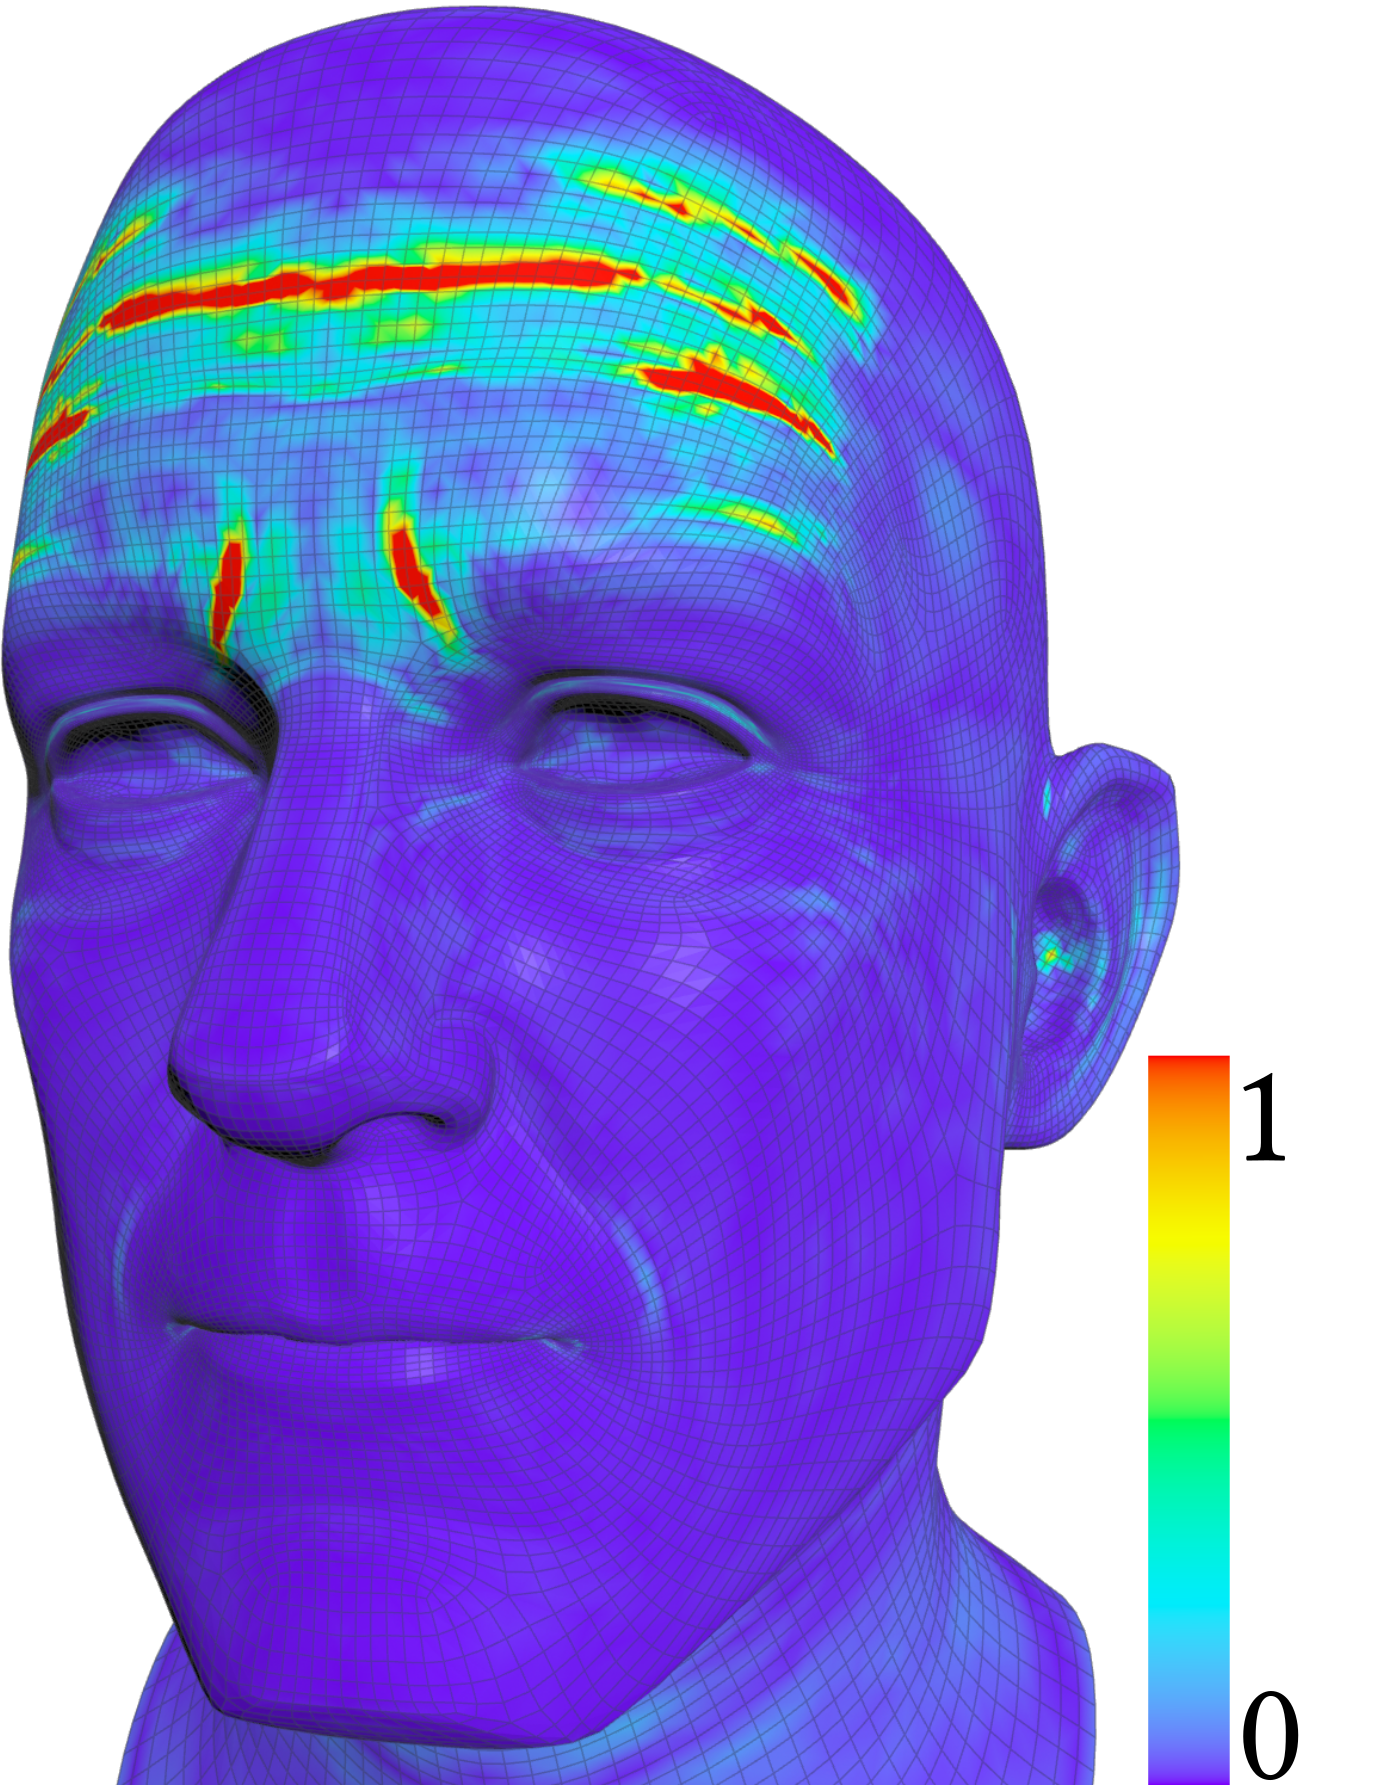
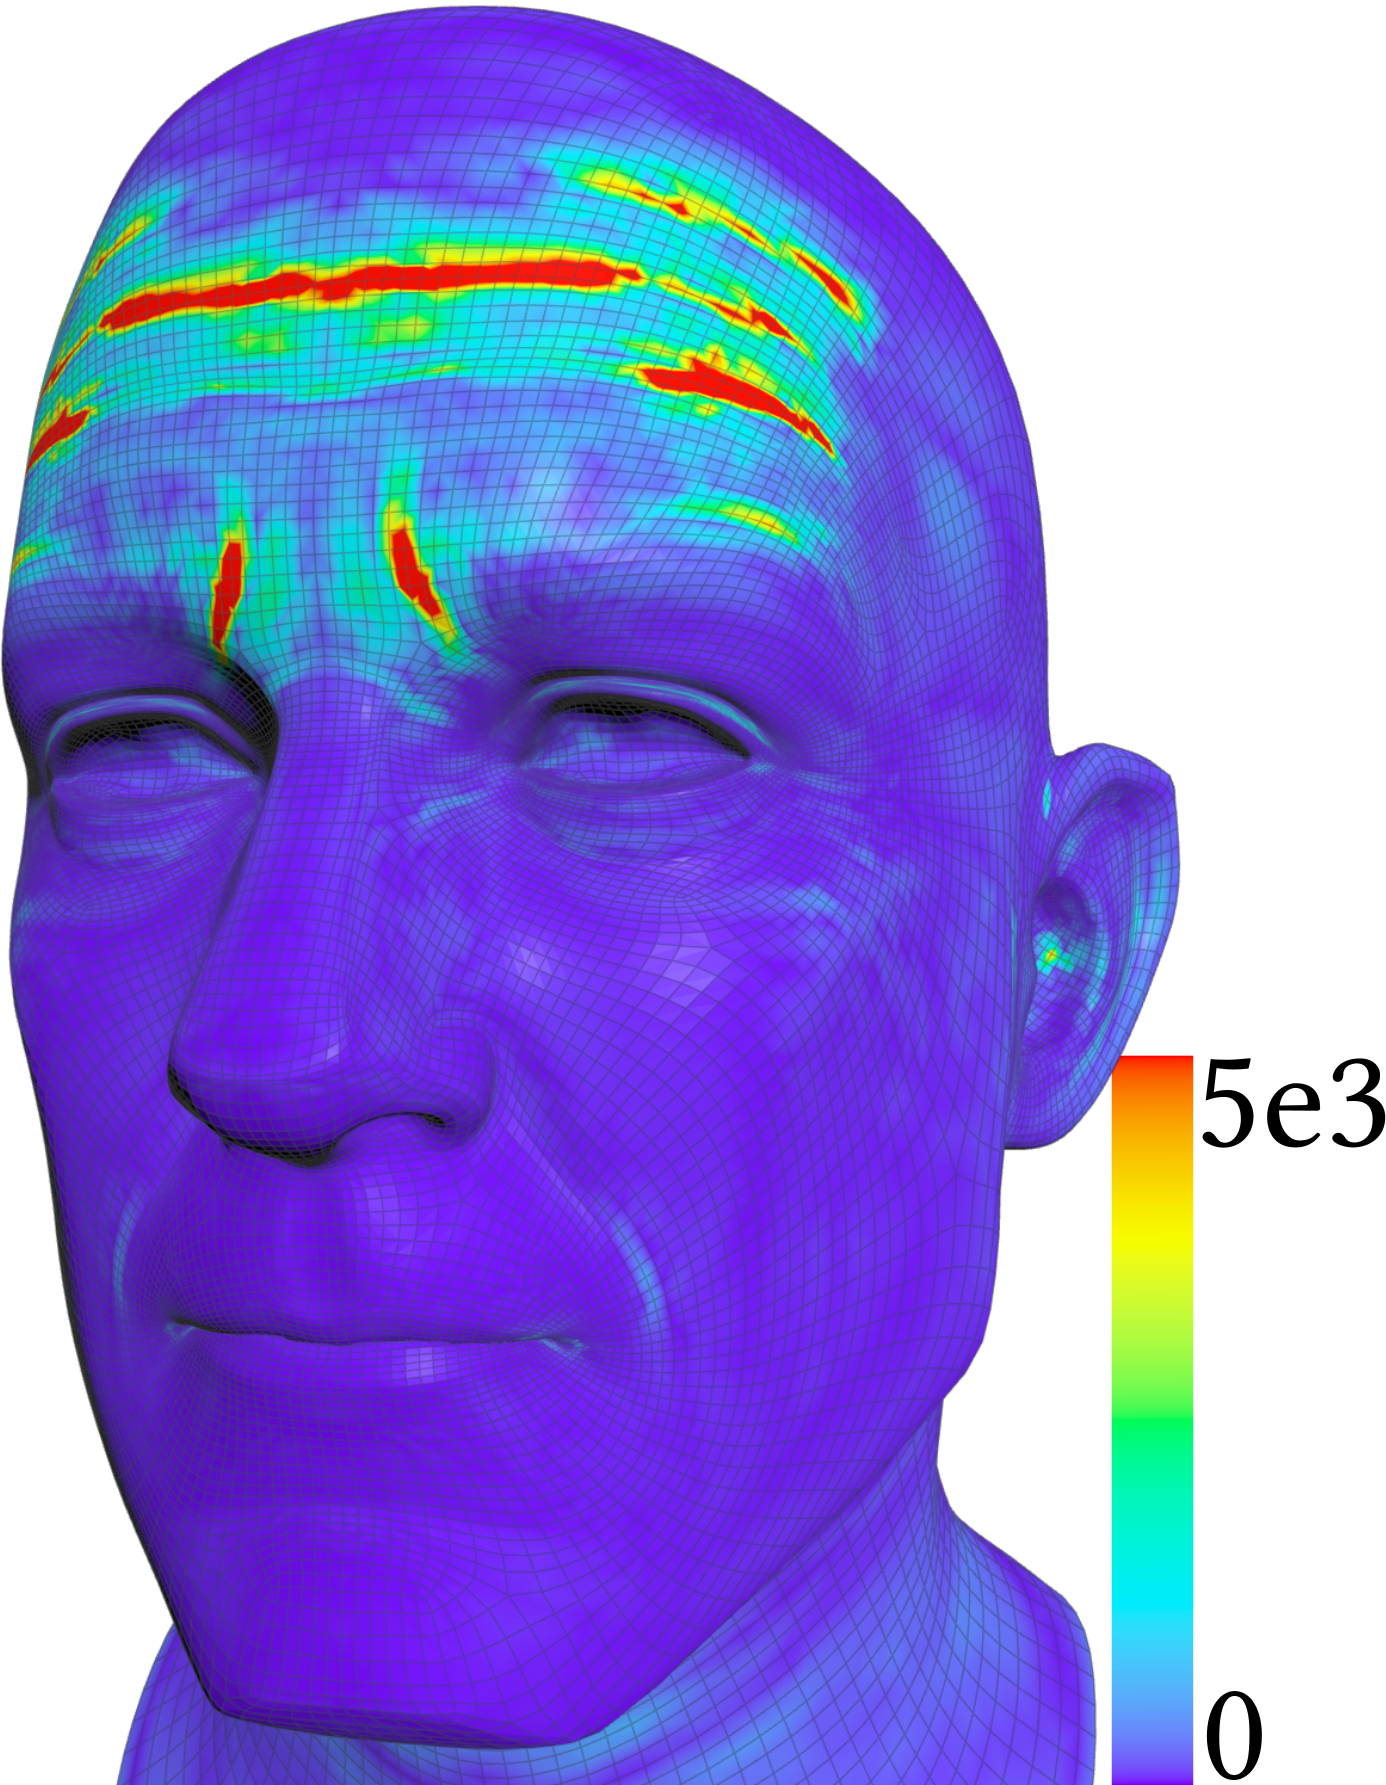
remove alpha from supplemental materials, correct wrinkles figure

Changed region(s): [[0.7756, 0.5854, 1.0, 1.0]]

diff --git a/HPG2025QMFPaper/latex/0_Supplemental.tex b/HPG2025QMFPaper/latex/0_Supplemental.tex
@@ -11,6 +11,7 @@
 \usepackage{xspace}
 \usepackage{multirow}
 \usepackage{siunitx}
+% \usepackage{float}
 
 \graphicspath{ {./images/} {./generated/} }
 
@@ -53,21 +54,22 @@
 
 \maketitle
 % \section{Supplemental Material}
-\vspace{4mm}
+% \vspace{4mm}
 \subsection*{CPU Runtime Code}
 This supplementary material provides the CPU implementation for applying blendshapes at runtime using sparse matrix factorization.
 
 To perform the multiplication efficiently, we iterate over the array~$\bSWeight$. For each non-zero weight, we access the corresponding three rows of the matrix $\matB$. If $\matB$ contains non-zero entries for the given weight, we perform the necessary multiplications and accumulate the results into the intermediate matrix $\matWB$.
 
 In the final stage of the algorithm, we multiply the small dense matrix $\matWB$ with sparse matrix $\matC$. This is done by iterating over the columns of $\matC$. For each non-zero entry, we access the corresponding column in $\matWB$, perform the multiplication, and add the result to the precomputed rest pose value. The final result is then stored. (See \Algorithm{alg:RuntimeCode})
+% \vspace{5cm}
 
-\subsection*{Chose of $\alpha$ value}
-\begin{figure}[h]
-    \includegraphics[width=\linewidth]{chooseAlpha.pdf}
-    \caption{Choosing $\alpha$ (Bowen model).}
-    \label{fig:chooseAlpha}
-\end{figure}
-\Figure{fig:chooseAlpha} illustrates how the evaluation metrics vary with the parameter $\alpha$. As $\alpha$ increases, the noise metric improves rapidly, while the position metric gradually degrades in an almost linear fashion. We observed this behavior consistently across all models in our dataset. For each model, we selected the largest $\alpha$ value that did not cause a significant degradation in the position metric.
+% \subsection*{Chose of $\alpha$ value}
+% \begin{figure}[h]
+%     \includegraphics[width=\linewidth]{chooseAlpha.pdf}
+%     \caption{Choosing $\alpha$ (Bowen model).}
+%     \label{fig:chooseAlpha}
+% \end{figure}
+% \Figure{fig:chooseAlpha} illustrates how the evaluation metrics vary with the parameter $\alpha$. As $\alpha$ increases, the noise metric improves rapidly, while the position metric gradually degrades in an almost linear fashion. We observed this behavior consistently across all models in our dataset. For each model, we selected the largest $\alpha$ value that did not cause a significant degradation in the position metric.
 
 \begin{lrbox}{\codebox}
 \begin{lstlisting}[language=c++]
@@ -85,7 +87,8 @@ void computeSparseFactorizationBlendshapes(
   for (uint32_t bsIndex = 0; bsIndex < data.numBS; ++bsIndex) {
     float bsWeight = data.blendshapeWeights[bsIndex];
     for (uint32_t i = 0; i < 3; ++i) {
-      uint32_t numValuesRow = data.matrixBNumValuesRow[bsIndex * 3 + i];
+      uint32_t rowIndex = bsIndex * 3 + i;
+      uint32_t numValuesRow = data.matrixBNumValuesRow[rowIndex];
       for (uint32_t j = 0; j < numValuesRow; ++j) {
         float bValue = isQuantized ?
           data.bMin + bMult * data.matrixB[flatBIndex] : 
@@ -118,7 +121,7 @@ void computeSparseFactorizationBlendshapes(
 \end{lstlisting}
 \end{lrbox}
 
-\begin{algorithm}
+\begin{algorithm}[b]
 \caption{CPU code to apply sparse matrix factorization-based blendshapes at runtime.}
 \label{alg:RuntimeCode}
 \usebox{\codebox}

diff --git a/HPG2025QMFPaper/latex/3_Method.tex b/HPG2025QMFPaper/latex/3_Method.tex
@@ -83,7 +83,7 @@ We have incorporated a new norm $\newNorm$ into \csfb \LK{this may be better dis
 \captionsetup{subrefformat=parens}
 \caption{Sparse Factorization:
 \subref{nonZeroDistribution} Number of non-zero values in $\matC$ per vertex;
-\subref{wrinklesMap} normalized wrinkles density $\wrinklesMap$;
+\subref{wrinklesMap} wrinkles density $\wrinklesMap$;
 \subref{nonZeroDistributionAfter} number of non-zero values in $\matC$ after correction.}
     \label{fig:FloatsDistribution}
 \end{figure}
